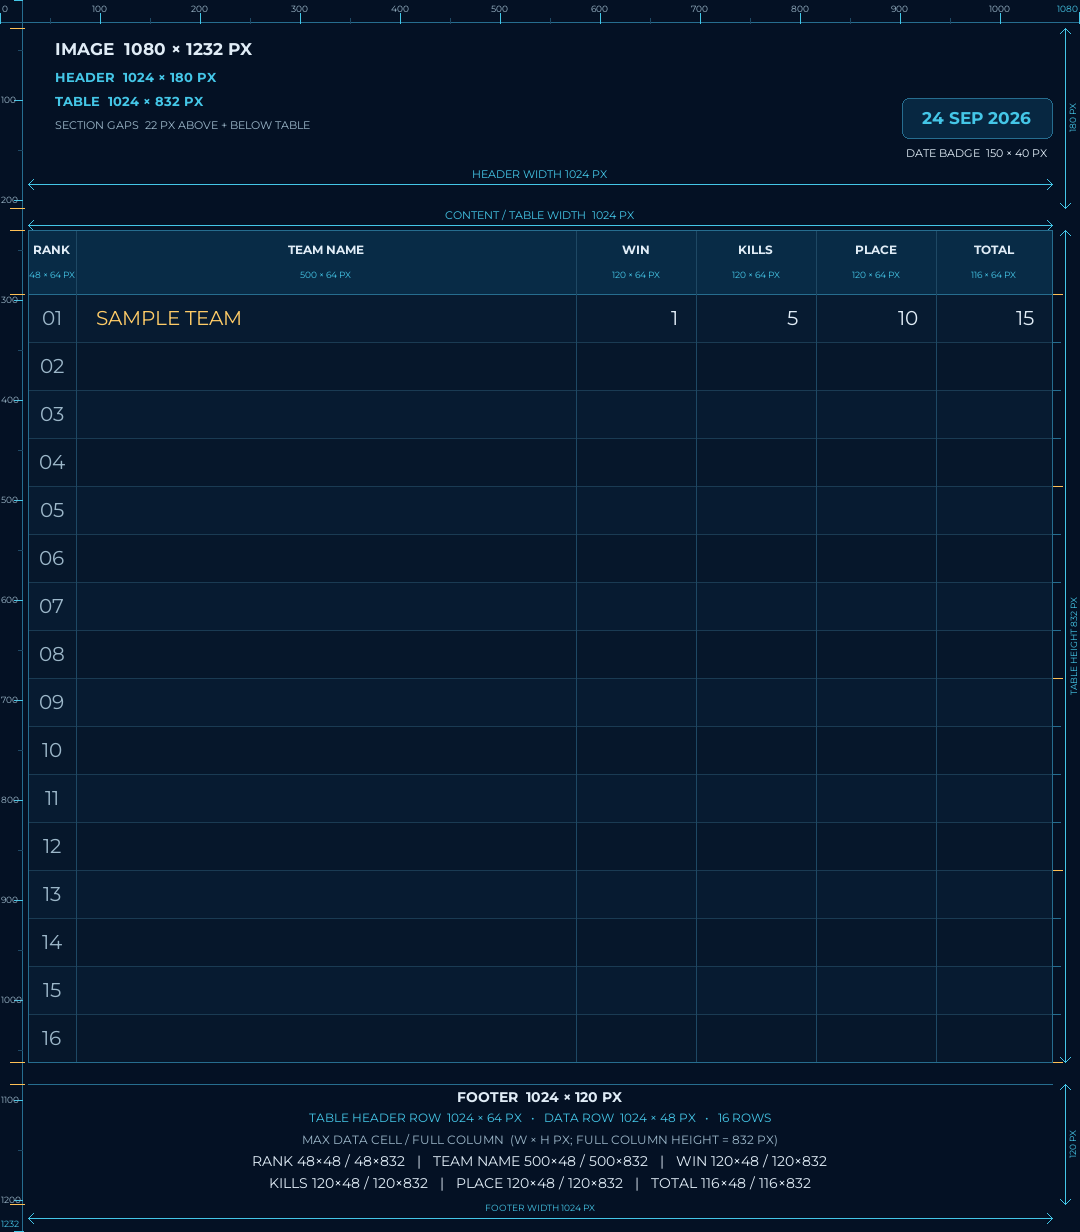
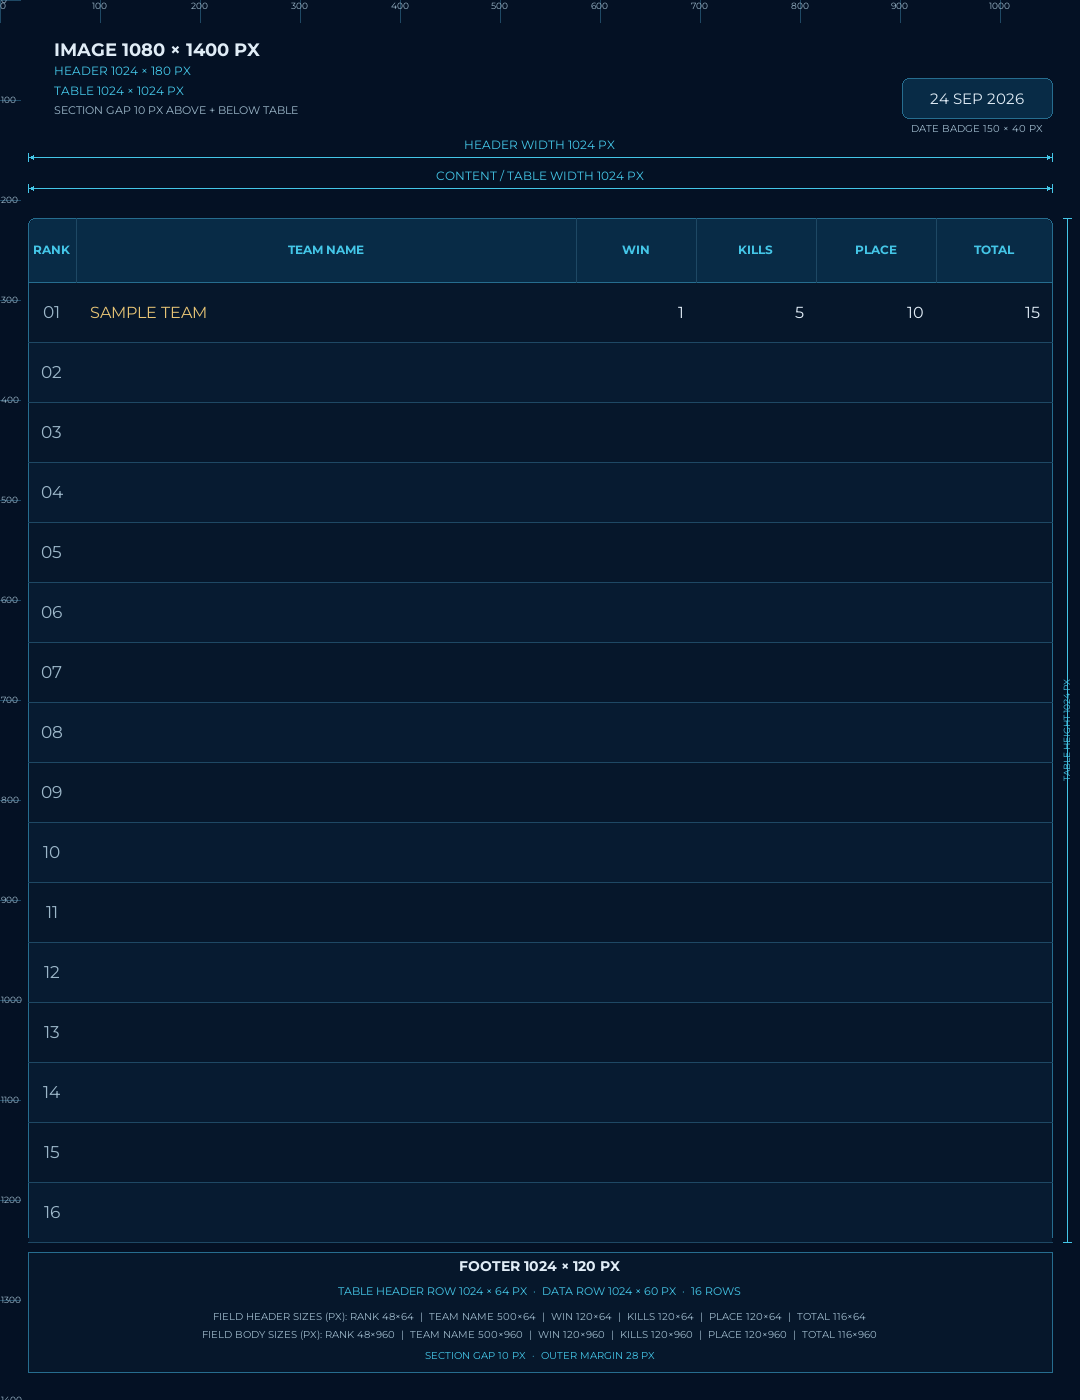
Apply measured leaderboard dimensions and blueprints

diff --git a/A.R.C. Public/main.py b/A.R.C. Public/main.py
@@ -78,9 +78,10 @@ MAX_LEADERBOARD_BACKGROUND_UPLOAD_BYTES = 8 * 1024 * 1024
 LEADERBOARD_VERTICAL_WIDTH = 1080
 LEADERBOARD_HORIZONTAL_WIDTH = 1920
 LEADERBOARD_OUTER_MARGIN = 28
-LEADERBOARD_SECTION_GAP = 22
+LEADERBOARD_SECTION_GAP = 10
 LEADERBOARD_TABLE_HEADER_HEIGHT = 64
-LEADERBOARD_ROW_HEIGHT = 48
+LEADERBOARD_VERTICAL_ROW_HEIGHT = 60
+LEADERBOARD_HORIZONTAL_ROW_HEIGHT = 80
 
 
 class LeaderboardBackgroundDimensionsError(ValueError):
@@ -6660,12 +6661,17 @@ def leaderboard_canvas_dimensions(
         if orientation == "vertical"
         else (team_count + 1) // 2
     )
+    row_height = (
+        LEADERBOARD_VERTICAL_ROW_HEIGHT
+        if orientation == "vertical"
+        else LEADERBOARD_HORIZONTAL_ROW_HEIGHT
+    )
     height = (
         2 * LEADERBOARD_OUTER_MARGIN
         + header_height
         + LEADERBOARD_SECTION_GAP
         + LEADERBOARD_TABLE_HEADER_HEIGHT
-        + visible_rows * LEADERBOARD_ROW_HEIGHT
+        + visible_rows * row_height
         + LEADERBOARD_SECTION_GAP
         + footer_height
     )
@@ -6809,9 +6815,41 @@ def _build_configured_leaderboard_image(
         fill=text,
         anchor="mm",
     )
+    if background_path == LEADERBOARD_BACKGROUND:
+        scrim_title = str(getattr(scrim, "name", "") or "").strip()
+        if scrim_title:
+            date_bbox = draw.textbbox((0, 0), date_label, font=date_font)
+            date_width = date_bbox[2] - date_bbox[0]
+            date_left = width - margin - 75 - date_width // 2
+            title_center_x = width // 2
+            title_right_limit = date_left - 24
+            title_half_width = min(
+                title_center_x - margin,
+                title_right_limit - title_center_x,
+            )
+            title_font = _fit_font(
+                scrim_title,
+                max_width=max(80, 2 * title_half_width),
+                max_height=header_height - 24,
+                max_size=64,
+                min_size=18,
+                weight=LEADERBOARD_BODY_FONT_WEIGHT,
+            )
+            draw.text(
+                (title_center_x, date_center_y),
+                scrim_title,
+                font=title_font,
+                fill=text,
+                anchor="mm",
+            )
 
     columns = 2 if orientation == "horizontal" else 1
     column_gap = 24 if columns == 2 else 0
+    row_height = (
+        LEADERBOARD_HORIZONTAL_ROW_HEIGHT
+        if columns == 2
+        else LEADERBOARD_VERTICAL_ROW_HEIGHT
+    )
     column_width = (
         width - 2 * margin - column_gap * (columns - 1)
     ) // columns
@@ -6839,8 +6877,8 @@ def _build_configured_leaderboard_image(
         place_x = x + column_width - (160 if columns == 1 else 135)
         total_x = x + column_width - 20
         for row_index in range(per_column_capacity):
-            y = row_top + row_index * LEADERBOARD_ROW_HEIGHT
-            text_y = y + LEADERBOARD_ROW_HEIGHT // 2
+            y = row_top + row_index * row_height
+            text_y = y + row_height // 2
             rank = column_index * per_column_capacity + row_index + 1
             draw.text(
                 (x + 34, text_y),
@@ -6859,7 +6897,7 @@ def _build_configured_leaderboard_image(
             team_font = _fit_font(
                 row.team_name,
                 max_width=max(80, team_max_width),
-                max_height=LEADERBOARD_ROW_HEIGHT - 8,
+                max_height=row_height - 8,
                 max_size=row_font,
                 min_size=13,
                 weight=LEADERBOARD_BODY_FONT_WEIGHT,
